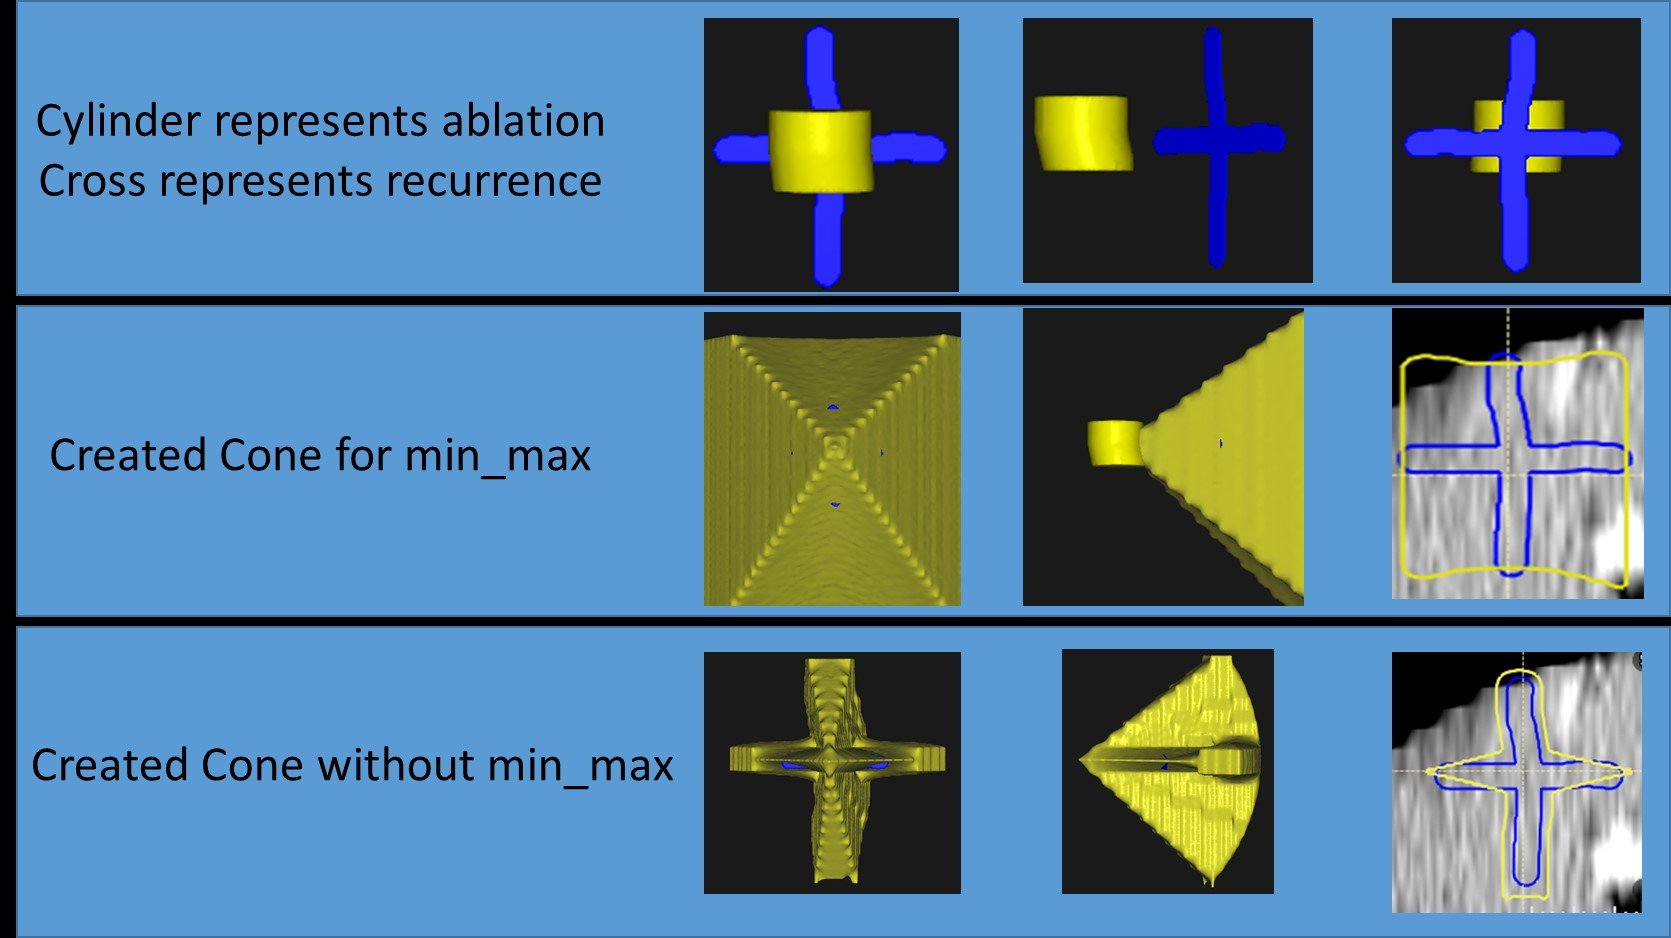
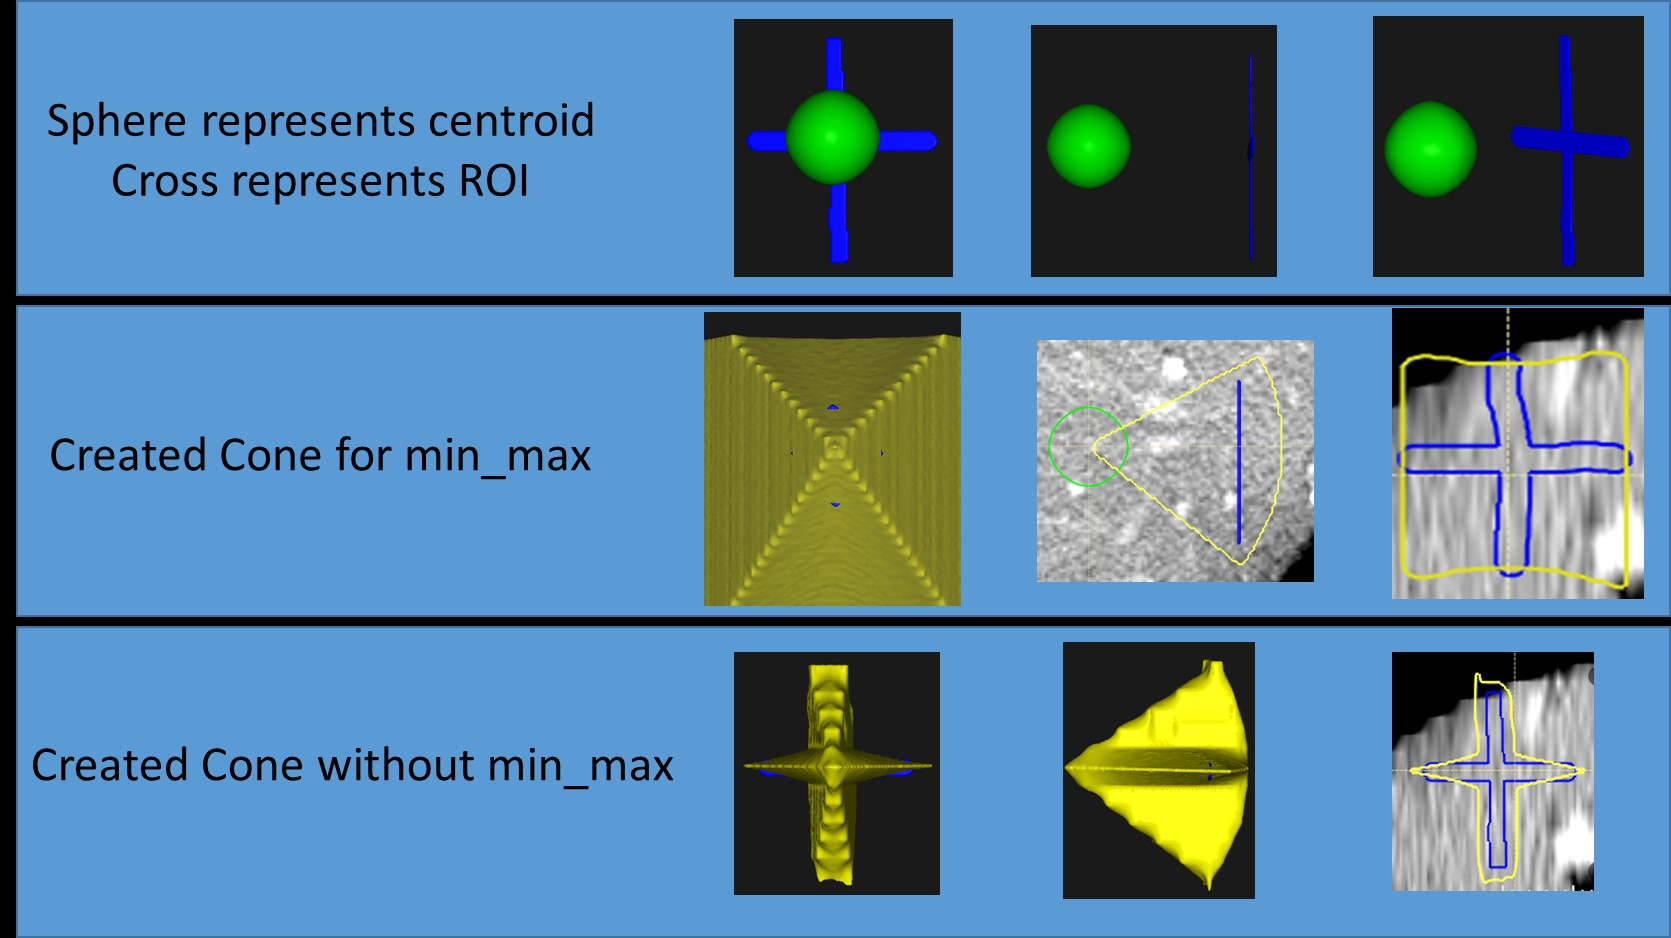
print values, updated picture

diff --git a/Proof_Of_Concept_Cross.py b/Proof_Of_Concept_Cross.py
@@ -32,7 +32,7 @@ for index in range(len(MRNs)):
     centroid_of_ablation_recurrence = np.asarray(center_of_mass(ablation_base))
     spacing = recurrence_reader.annotation_handle.GetSpacing()
     output = create_output_ray(centroid_of_ablation_recurrence, spacing=spacing, target_binary_image=cross_base,
-                      margin_rad=np.deg2rad(5), margin=50)
+                      margin_rad=np.deg2rad(5), margin=50, min_max=False)
     output = np.expand_dims(output, axis=-1)
     output = np.repeat(output, repeats=2, axis=-1)
     recurrence_reader.with_annotations(output, output_dir=os.path.join(recurrence_path, 'new_RT'),

diff --git a/Utilities.py b/Utilities.py
@@ -61,6 +61,7 @@ def create_output_ray(centroid, target_binary_image, spacing, margin=50, min_max
     labels = morphology.label(target_binary_image, neighbors=4)  # Could have multiple recurrence sites
     output = np.zeros(target_binary_image.shape)
     for label_value in range(1, np.max(labels) + 1):
+        print('Iterating for mask values {} of {}'.format(label_value,np.max(labels)))
         recurrence = np.zeros(target_binary_image.shape)
         recurrence[labels == label_value] = 1
         polar_cords = create_distance_field(recurrence, origin=centroid, spacing=spacing)
